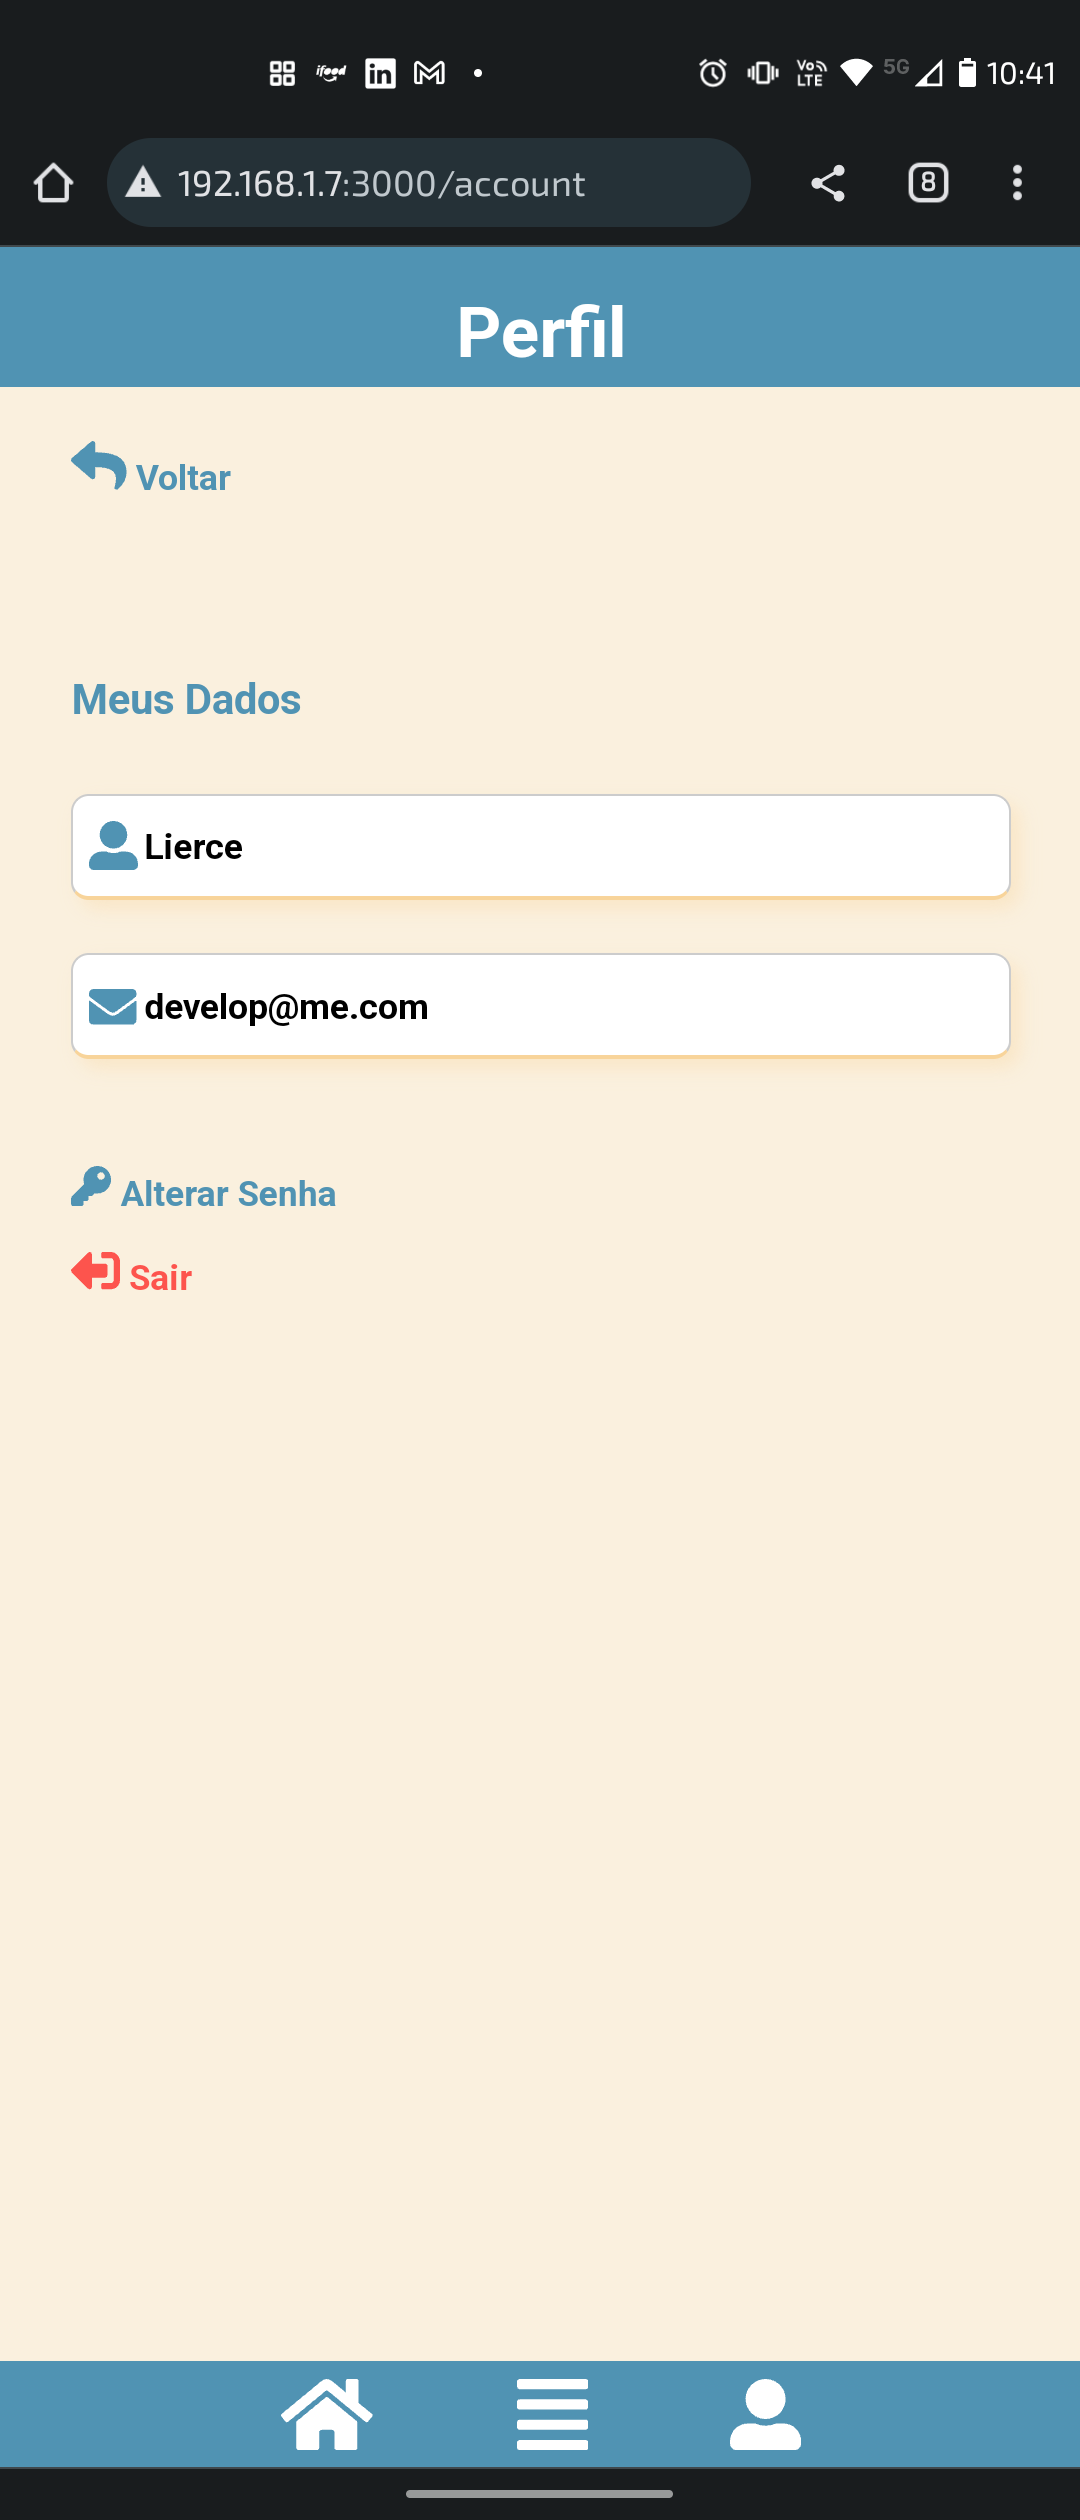
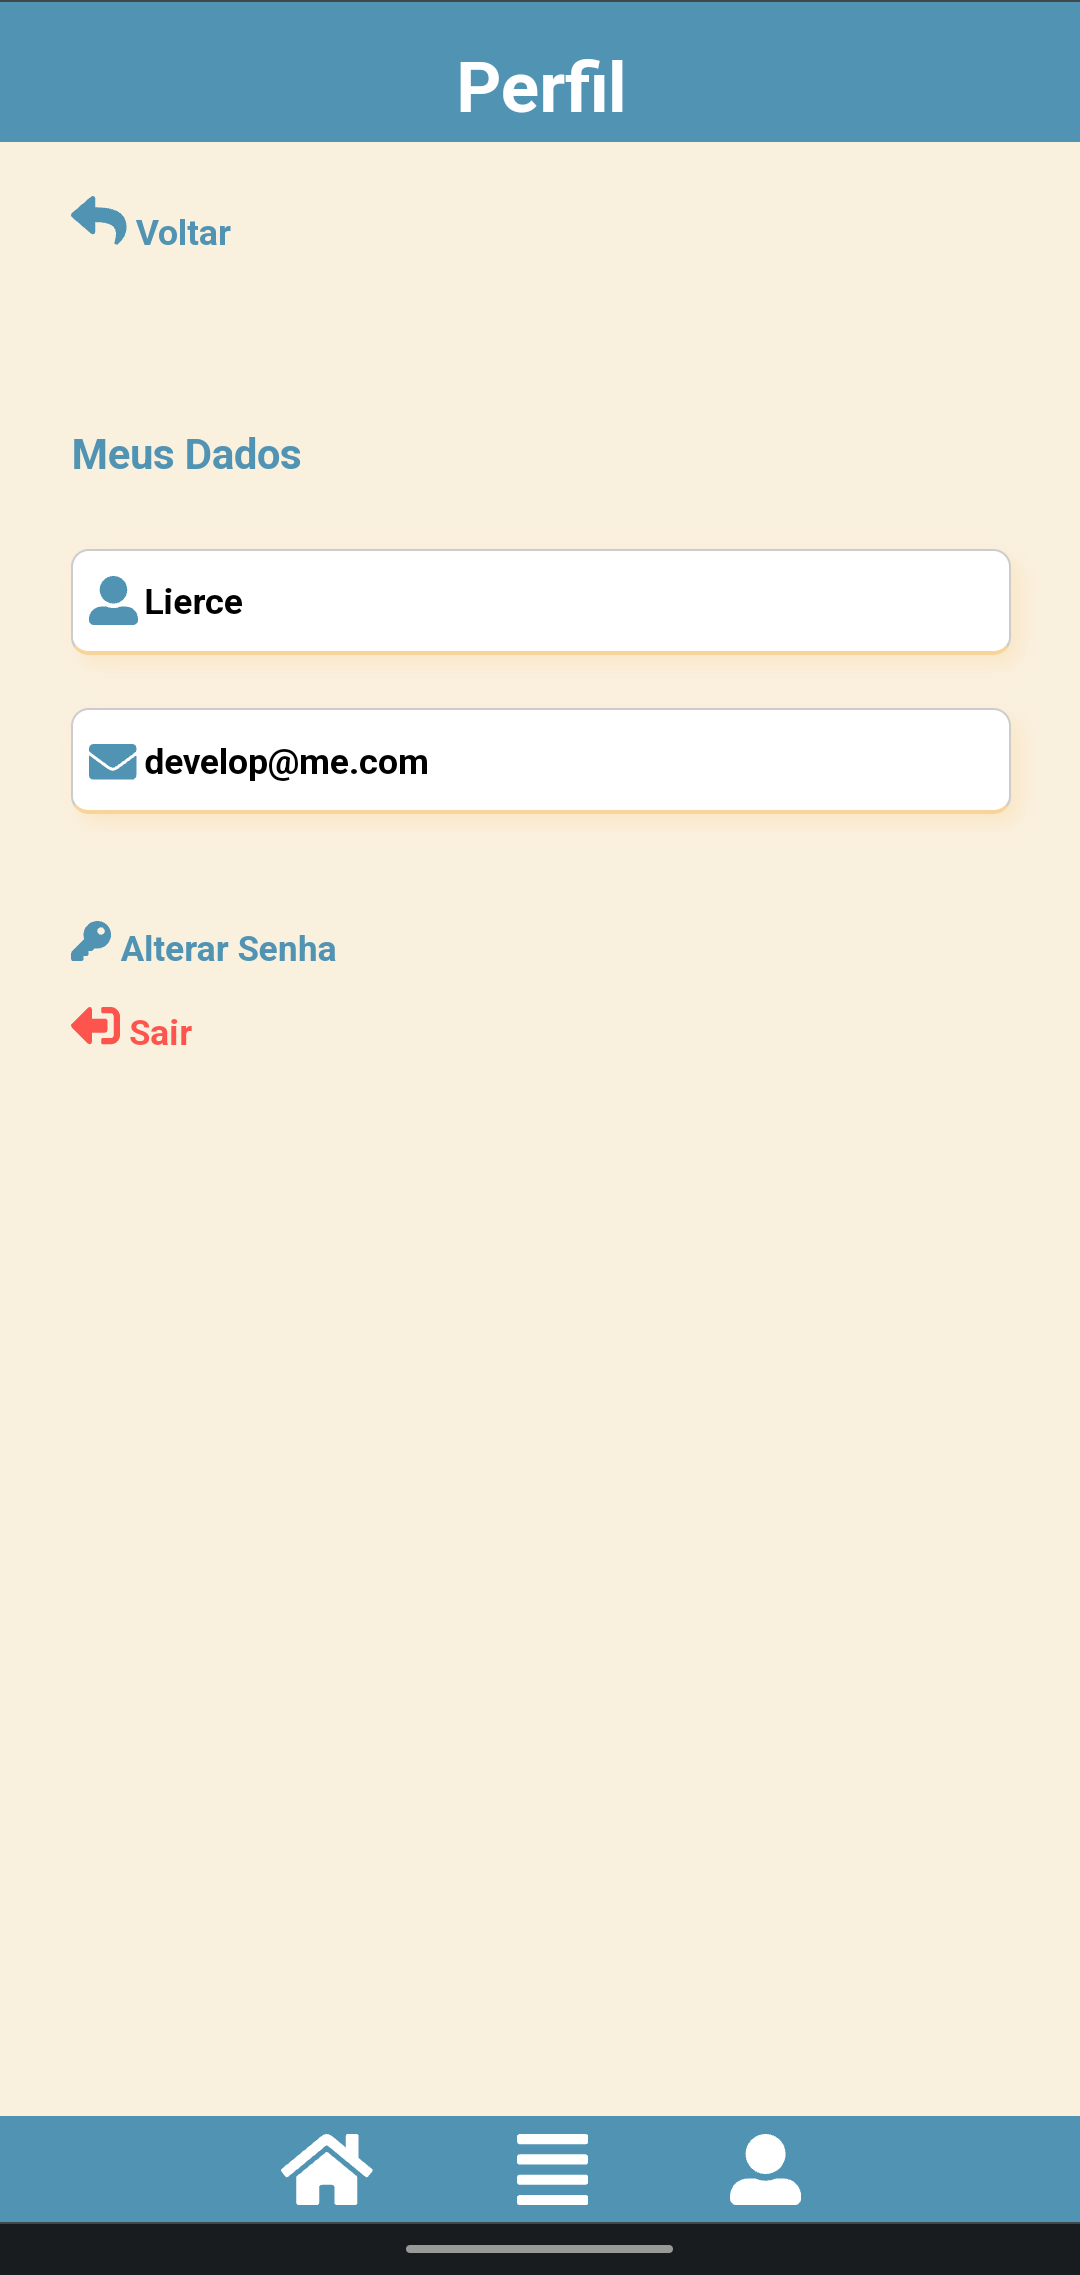
Adicionado README.md

Changed region(s): [[0.0, 0.0, 1.0, 0.5305], [0.0, 0.9051, 1.0, 0.9987]]

diff --git a/README.md b/README.md
@@ -1,0 +1,63 @@
+# PWA Tasks
+
+A proposta do aplicativo é disponibilizar de forma simples uma lista de tarefas para o dia atual, de forma que o usuário possa adicionar novas tarefas e visualizar a agenda programada para os diferentes momentos do dia mesmo que esteja offline.
+
+
+
+## Configuração e Execução
+
+Siga as instruções abaixo para configurar e executar o projeto em seu ambiente local.
+
+### Pré-requisitos
+
+Para rodar o projeto, é necessário a configuração no Firebase para o processo de autenticação. Basta seguir os passos da plataforma e um arquivo `private.json` com seus dados na pasta `src/services/`.
+
+- Firebase: [Configurar APP](https://console.firebase.google.com/)
+- NodeJS: [Baixe aqui](https://nodejs.org/pt-br/download)
+- Git: [Baixe aqui](https://git-scm.com/)
+
+### Passo 1: Clone o repositório
+Clone o repositório para o seu diretório local usando o seguinte comando:
+
+```bash
+git clone https://github.com/liercesantos/pwa-tasks.git
+```
+
+### Passo 2: Instalar dependências
+Instale as dependências necessárias para rodar a aplicação:
+```bash 
+npm install
+```
+
+### Passo 3: Rodar o aplicativo em modo de desenvolvimento
+```bash 
+npm run start
+``` 
+
+### Passo 3.1: Buildar o aplicativo
+```bash 
+npm run build
+``` 
+
+### Passo 3.2: Rodar em servidor local
+Você pode usar um servidor HTTP simples para servir os arquivos do aplicativo em produção. Um pacote popular para isso é o serve. Você pode instalá-lo globalmente com o seguinte comando:
+```bash 
+npm install -g serve
+``` 
+Em seguida:
+```bash 
+serve -s build
+``` 
+
+## Apresentação:
+<div style="display: flex; flex-direction: row; width: 100%; justify-content: space-around;">
+    <img style="display: flex; flex-direction: column; padding: 0 8px;" src="https://raw.githubusercontent.com/liercesantos/pwa-tasks/master/public/presentation/login.png" alt="Tela de Login" width="250">
+    <img style="display: flex; flex-direction: column; padding: 0 8px;" src="https://raw.githubusercontent.com/liercesantos/pwa-tasks/master/public/presentation/register.png" alt="Tela de Cadastro" width="250">
+    <img style="display: flex; flex-direction: column; padding: 0 8px;" src="https://raw.githubusercontent.com/liercesantos/pwa-tasks/master/public/presentation/home-a.png" alt="Home A" width="250">
+</div>
+
+<div style="display: flex; flex-direction: row; width: 100%; justify-content: space-around; margin-top: 32px;">
+    <img style="display: flex; flex-direction: column; padding: 0 8px;" src="https://raw.githubusercontent.com/liercesantos/pwa-tasks/master/public/presentation/home.png" alt="Home" width="250">
+    <img style="display: flex; flex-direction: column; padding: 0 8px;" src="https://raw.githubusercontent.com/liercesantos/pwa-tasks/master/public/presentation/dashboard.png" alt="Dashboard" width="250">
+    <img style="display: flex; flex-direction: column; padding: 0 8px;" src="https://raw.githubusercontent.com/liercesantos/pwa-tasks/master/public/presentation/account.png" alt="Perfil" width="250">
+</div>
